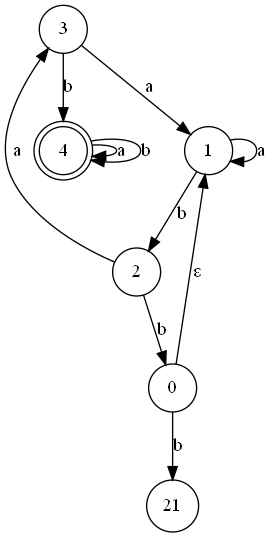
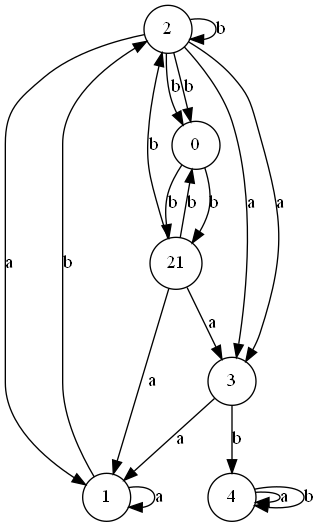
class attributes are no longer private

diff --git a/src/Parser.py b/src/Parser.py
@@ -7,71 +7,72 @@ class Parser(object):
     alphabet, les états et transitions
     """
 
-    def __init__(self, file):
-        self.__m_file = file
-        self.__m_Nodes = []  # transitions
-        self.__m_finalStates = []  # états finaux
-        self.__m_alphabet = []  # alphabet
-        self.__m_states = []  # états
-        self.__m_initialState = ''  # état initial
+    def __init__(self, file=None):
+        if (file):
+            self.file = file
+        self.Nodes = []  # transitions
+        self.finalStates = []  # états finaux
+        self.alphabet = []  # alphabet
+        self.states = []  # états
+        self.initialState = ''  # état initial
 
     def parse(self):
         counter = 0
-        for line in self.__m_file:
+        for line in self.file:
             # la première ligne contient les états finaux
             if (counter == 0):
                 # les stocker
-                self.__m_finalStates = line.rstrip().split(' ')
+                self.finalStates = line.rstrip().split(' ')
 
             # reste du fichier = transitions
             # Premier élément de la première ligne = état initial
             # A chaque ligne ajouter l'état et élément de l'alphabet s'ils n'existent pas déjà
             elif (counter == 1):
-                self.__m_initialState = line.rstrip().split(' ')[0]
+                self.initialState = line.rstrip().split(' ')[0]
                 line = line.rstrip().split(' ')
 
-                self.__m_states.append(line[0])
+                self.states.append(line[0])
                 if (line[0] != line[2]):
-                    self.__m_states.append(line[2])
+                    self.states.append(line[2])
 
-                self.__m_Nodes.append(Node(line[0], line[1], line[2]))
+                self.Nodes.append(Node(line[0], line[1], line[2]))
 
-                if (line[1] not in self.__m_alphabet):
-                    self.__m_alphabet.append(line[1])
+                if (line[1] not in self.alphabet):
+                    self.alphabet.append(line[1])
             else:
                 line = line.rstrip().split(' ')
-                if (line[0] not in self.__m_states):
-                    self.__m_states.append(line[0])
-                if (line[2] not in self.__m_states):
-                    self.__m_states.append(line[2])
+                if (line[0] not in self.states):
+                    self.states.append(line[0])
+                if (line[2] not in self.states):
+                    self.states.append(line[2])
 
-                self.__m_Nodes.append(Node(line[0], line[1], line[2]))
+                self.Nodes.append(Node(line[0], line[1], line[2]))
 
-                if (line[1] not in self.__m_alphabet):
-                    self.__m_alphabet.append(line[1])
+                if (line[1] not in self.alphabet):
+                    self.alphabet.append(line[1])
 
             counter += 1
         self.close()
 
     def close(self):
         # Fermer le fichier à la fin
-        self.__m_file.close()
+        self.file.close()
 
     # getters
     def getAlphabet(self):
-        return self.__m_alphabet
+        return self.alphabet
 
     def getFinalStates(self):
-        return self.__m_finalStates
+        return self.finalStates
 
     def getNodes(self):
-        return self.__m_Nodes
+        return self.Nodes
 
     def getStates(self):
-        return self.__m_states
+        return self.states
 
     def getInitialState(self):
-        return self.__m_initialState
+        return self.initialState
 
     # Récupérer toutes les transitions possibles d'un noeud (state)
     def getStateTransitions(self, state):
@@ -82,9 +83,21 @@ class Parser(object):
 
         return transFromState
 
-    # setters
-    def setNodes(self, nodes):
-        self.__m_Nodes = nodes
-
     def nodeToString(self, node):
         return f"Read {node.mValue} from {node.mFrom} to {node.mGoto}"
+
+    # setters
+    def setAlphabet(self, alphabet):
+        self.alphabet = alphabet
+
+    def setFinalStates(self, final_states):
+        self.finalStates = final_states
+
+    def setNodes(self, nodes):
+        self.Nodes = nodes
+
+    def setStates(self, states):
+        self.states = states
+
+    def setInitialState(self, initialState):
+        self.initialState = initialState

diff --git a/src/Algorithms.py b/src/Algorithms.py
@@ -1,9 +1,11 @@
+from Parser import *
 from Node import *
 import collections
 import queue
 
-
 # algorithme prenant un automate déterministe et un mot, et décidant si le mot est accepté par l'automate.
+
+
 def acceptation(graph):
     # parse file and store states
     nodes = graph.getNodes()
@@ -81,11 +83,18 @@ def synchronisation(graph):
 
 def determinisation(graph):
     print("determinisation")
+    # Automate déterministre résultant
+    graph_det = Parser()
+
+    # Automate non déterministe
     nodes = graph.getNodes()
     currentNode = graph.getInitialState()
     states = graph.getStates()
+
+    # File pour le traitement des noeuds
     states_queue = queue.Queue()
     states_queue.put(currentNode)
+    # Liste des noeuds traités
     node_treated = []
     while (not states_queue.empty()):
         currentNode = states_queue.get()
@@ -107,22 +116,26 @@ def determinisation(graph):
                     new_state = ''
                     for trans in non_det_trans:
                         new_state += trans.mGoto
-                        nodes.remove(trans)
-                        print(graph.nodeToString(trans))
-                    print(new_state)
-                    states.append(new_state)
-                    nodes.append(
+                        goto_nodes = graph.getStateTransitions(node.mGoto)
+                        # Récupérer les succésseurs des états non déterministes
+                        for gtn in goto_nodes:
+                            graph_det.Nodes.append(
+                                Node(new_state, gtn.mValue, gtn.mGoto))
+                    graph_det.states.append(new_state)
+                    graph_det.Nodes.append(
                         Node(currentNode, trans.mValue, new_state))
+
                     states_queue.put(new_state)
                 # Sinon ajout les succésseurs à la liste des états à traiter
                 else:
+                    graph_det.Nodes.append(node)
                     states_queue.put(node.mGoto)
 
                 currentNode = node.mGoto
                 node_treated.append(node)
         for node in nodes:
             print(graph.nodeToString(node))
-    return graph
+    return graph_det
 
 # algorithme calculant un automate déterministe minimal équivalent au premier.
 
